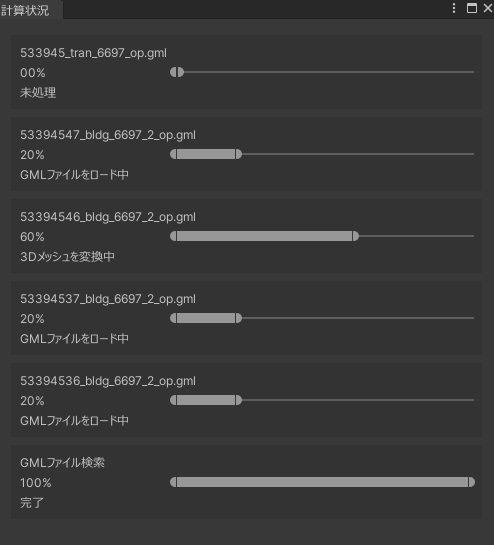
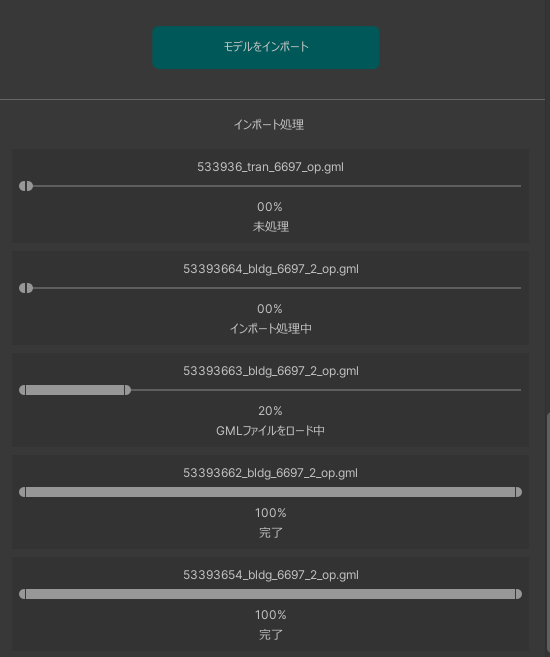
進捗表示のUI変更に合わせてマニュアルを更新

diff --git a/Documentation~/manual/ImportCityModels.md b/Documentation~/manual/ImportCityModels.md
@@ -91,12 +91,11 @@
 > データ容量が重く処理に時間がかかるのでご注意ください。
   
 ### インポートの実行
-- ```モデルをインポート```ボタンを押します。  
-![](../resources/manual/importCityModels/importButton.png)
-- ```計算状況```ウィンドウが現れ、インポート処理の進捗が表示されます。
+- ```モデルをインポート```ボタンを押します。
+- ウィンドウの下部にインポート処理の進捗が表示されます。
 ![](../resources/manual/importCityModels/importProgressWindow.png)
 - 処理が進むと、都市のオブジェクトが順次シーンに配置されていきます。  
-  計算状況ウィンドウがすべて「完了」になったらインポート終了です。  
+  進捗表示がすべて「完了」になったらインポート終了です。  
 ![](../resources/manual/importCityModels/importComplete.png)
 
 >[!NOTE]
